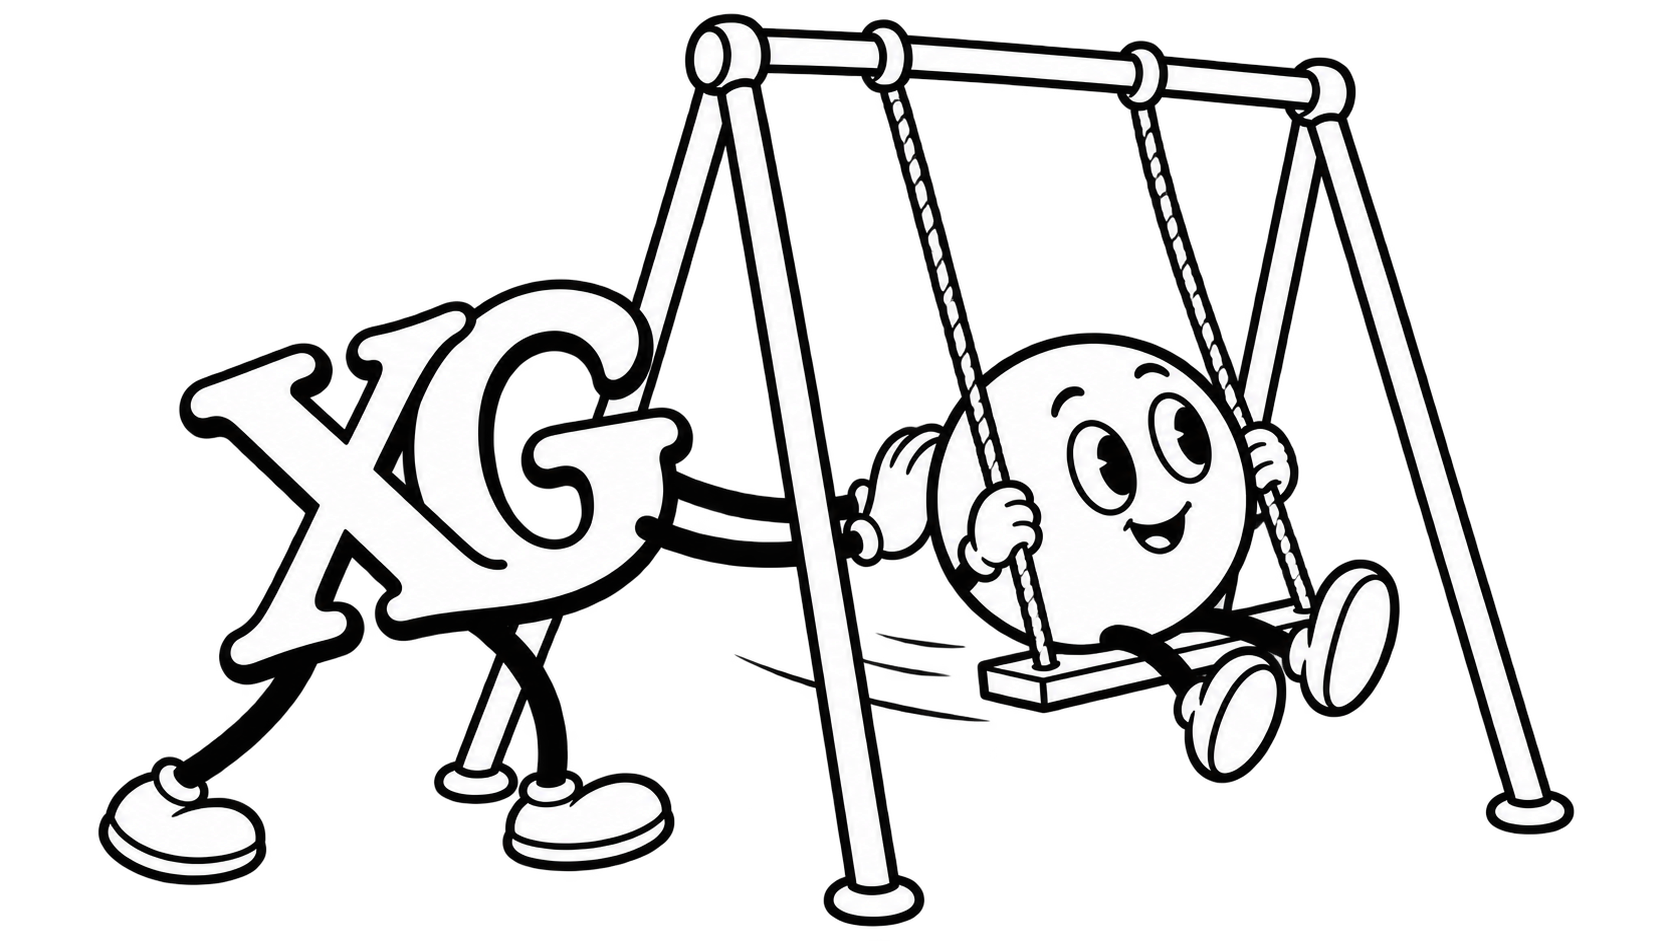
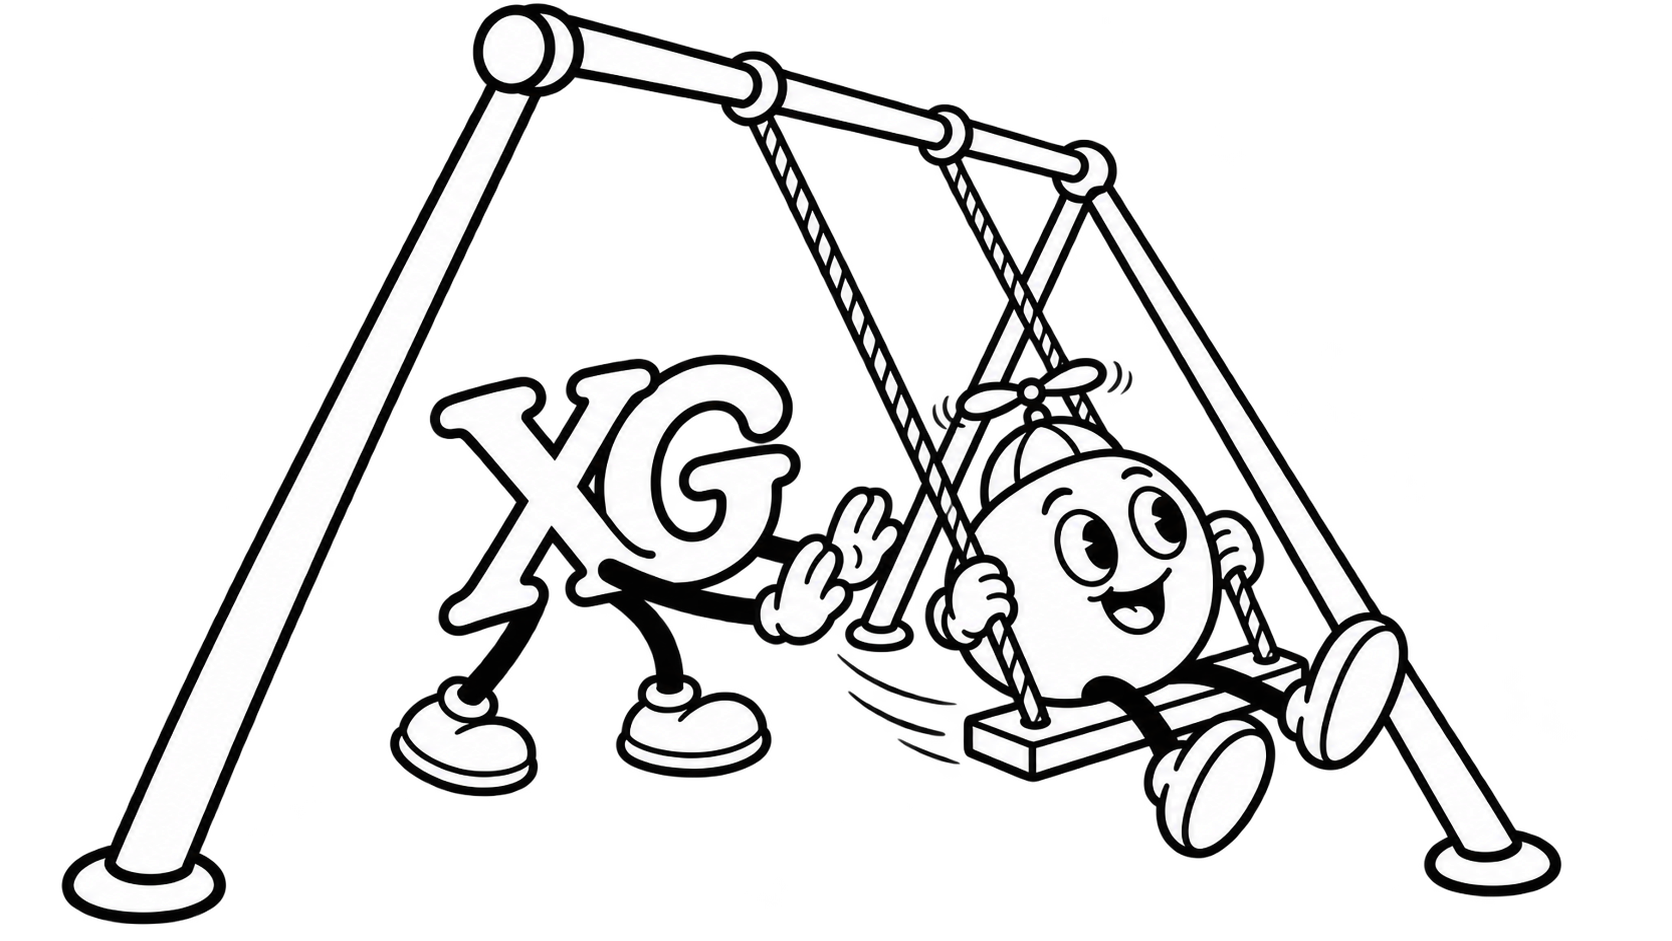
Use the latest XG swing title illustration

Changed region(s): [[0.0311, 0.0, 0.9641, 0.9862]]

diff --git a/docs/boosting/index.html b/docs/boosting/index.html
@@ -23,7 +23,7 @@
         <p class="eyebrow">MACHINE LEARNING &amp; AI FOR THE SOCIAL SCIENCES</p>
         <h1 id="page-title">Boosting,<br>one step at a time</h1>
         <p class="title-subtitle">Gradient descent in function space</p>
-        <img src="assets/xg-swing.png" width="1692" height="930" alt="An XG letter character gives a smiling, torso-less stick figure a push on a swing." class="title-art">
+        <img src="assets/xg-swing.png" width="1672" height="941" alt="An XG letter character pushes a joyful, torso-less stick figure wearing a propeller hat on a swing." class="title-art">
         <a class="start-link" href="#story">Begin the explanation</a>
       </div>
     </section>
